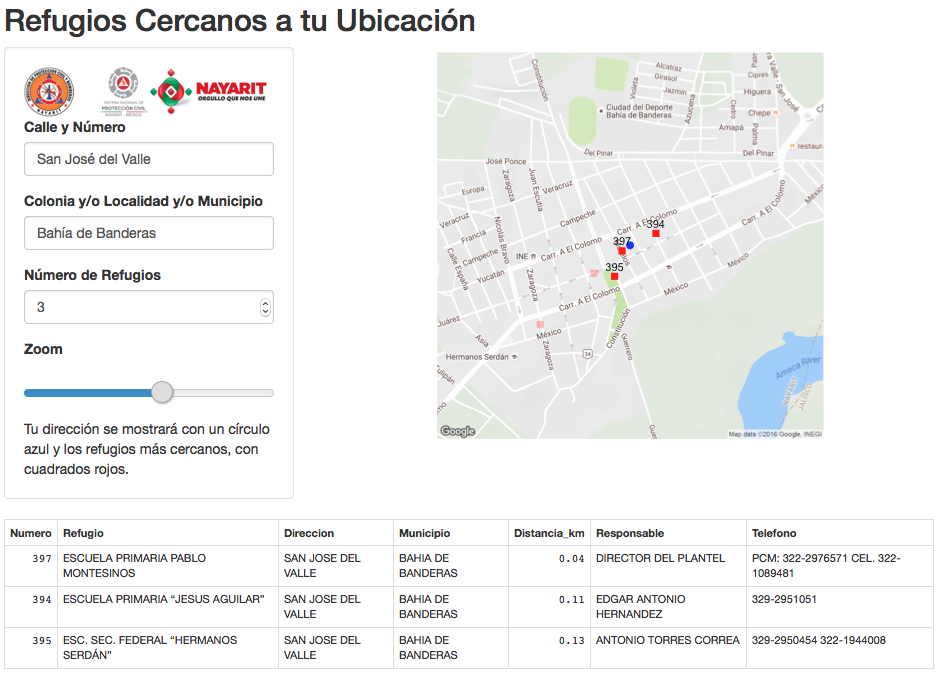
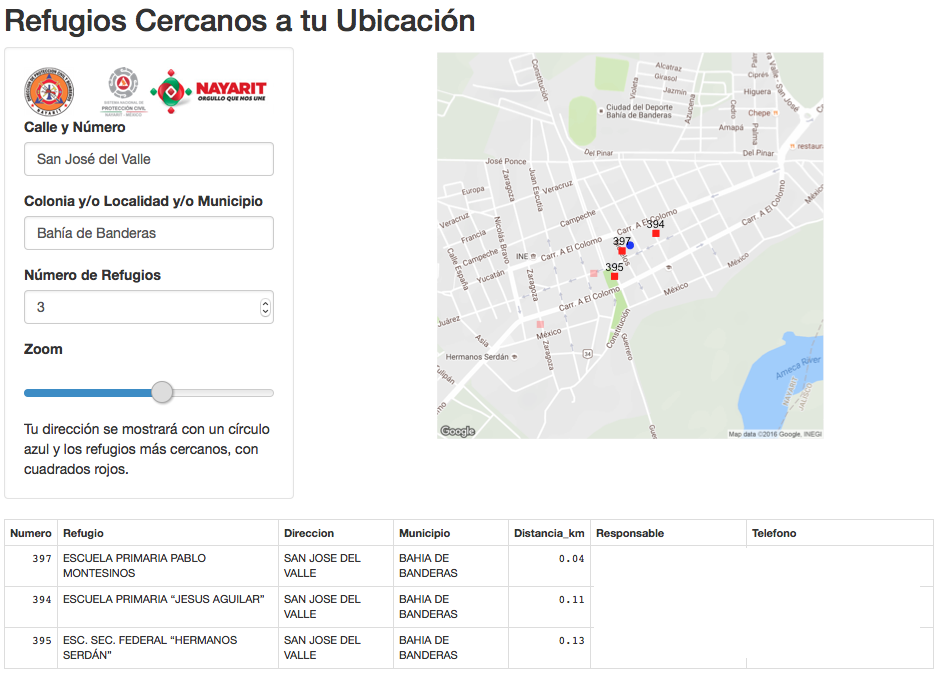
Wrong screenshot AGAIN

Changed region(s): [[0.617, 0.8698, 0.9564, 0.963], [0.8021, 0.8077, 0.9564, 0.9009], [0.617, 0.8077, 0.7713, 0.8388]]

diff --git a/README.md b/README.md
@@ -9,7 +9,7 @@ Requiere:
 
 El script de limpieza `clean_data.R` requiere `path_to_file` en donde se puede encontrar el archivo `refugios_nayarit.xlsx`. El nombre del archivo también puede ser modificado, para poder replicar para otros estados.
 
-**Así se ve el programa**:
+**Así se ve el programa, datos de contacto omitidos por privacidad:**:
 
 ![ ](www/refugios_nayarit.png?raw=true "Example of the Tool")
 
@@ -24,6 +24,6 @@ Requires:
 Cleaning Script `clean_data.R` requires `path_to_file` in which the raw file called `refugios_nayarit.xlsx` can be found. The name of the file can be changed too, in order to be able to replicate this for other states.
 
 
-**This is what the dashboard looks like:**
+**This is what the dashboard looks like, contact data ommited for privacy:**
 
 ![ ](www/refugios_nayarit.png?raw=true "Example of the Tool")
